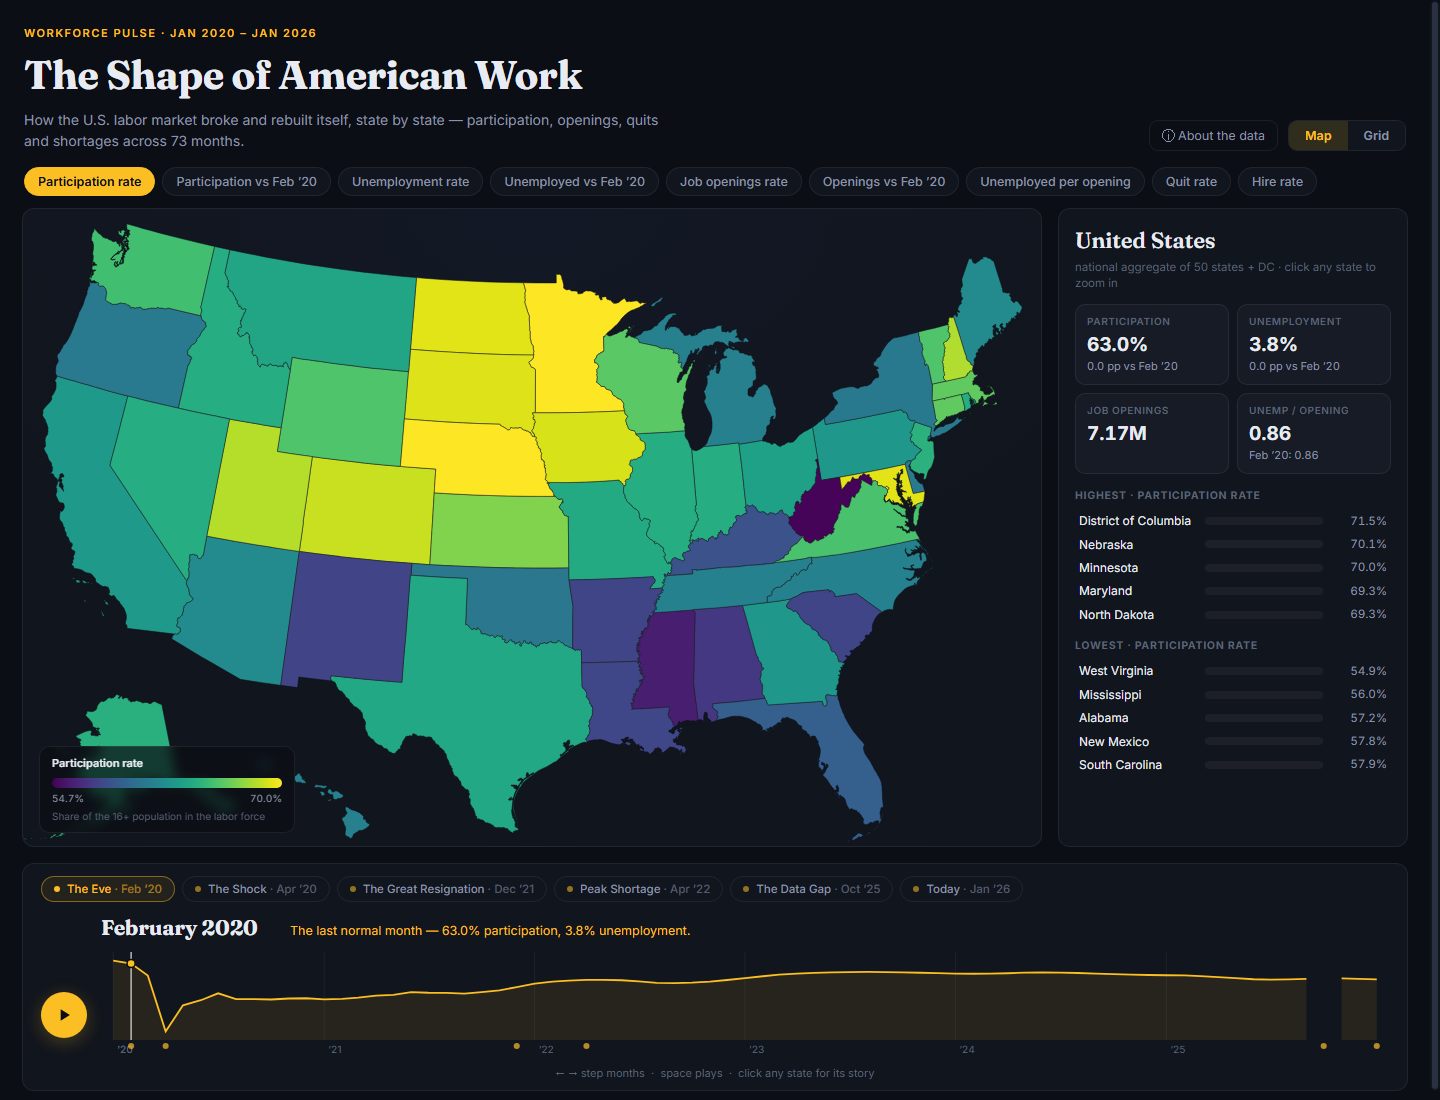
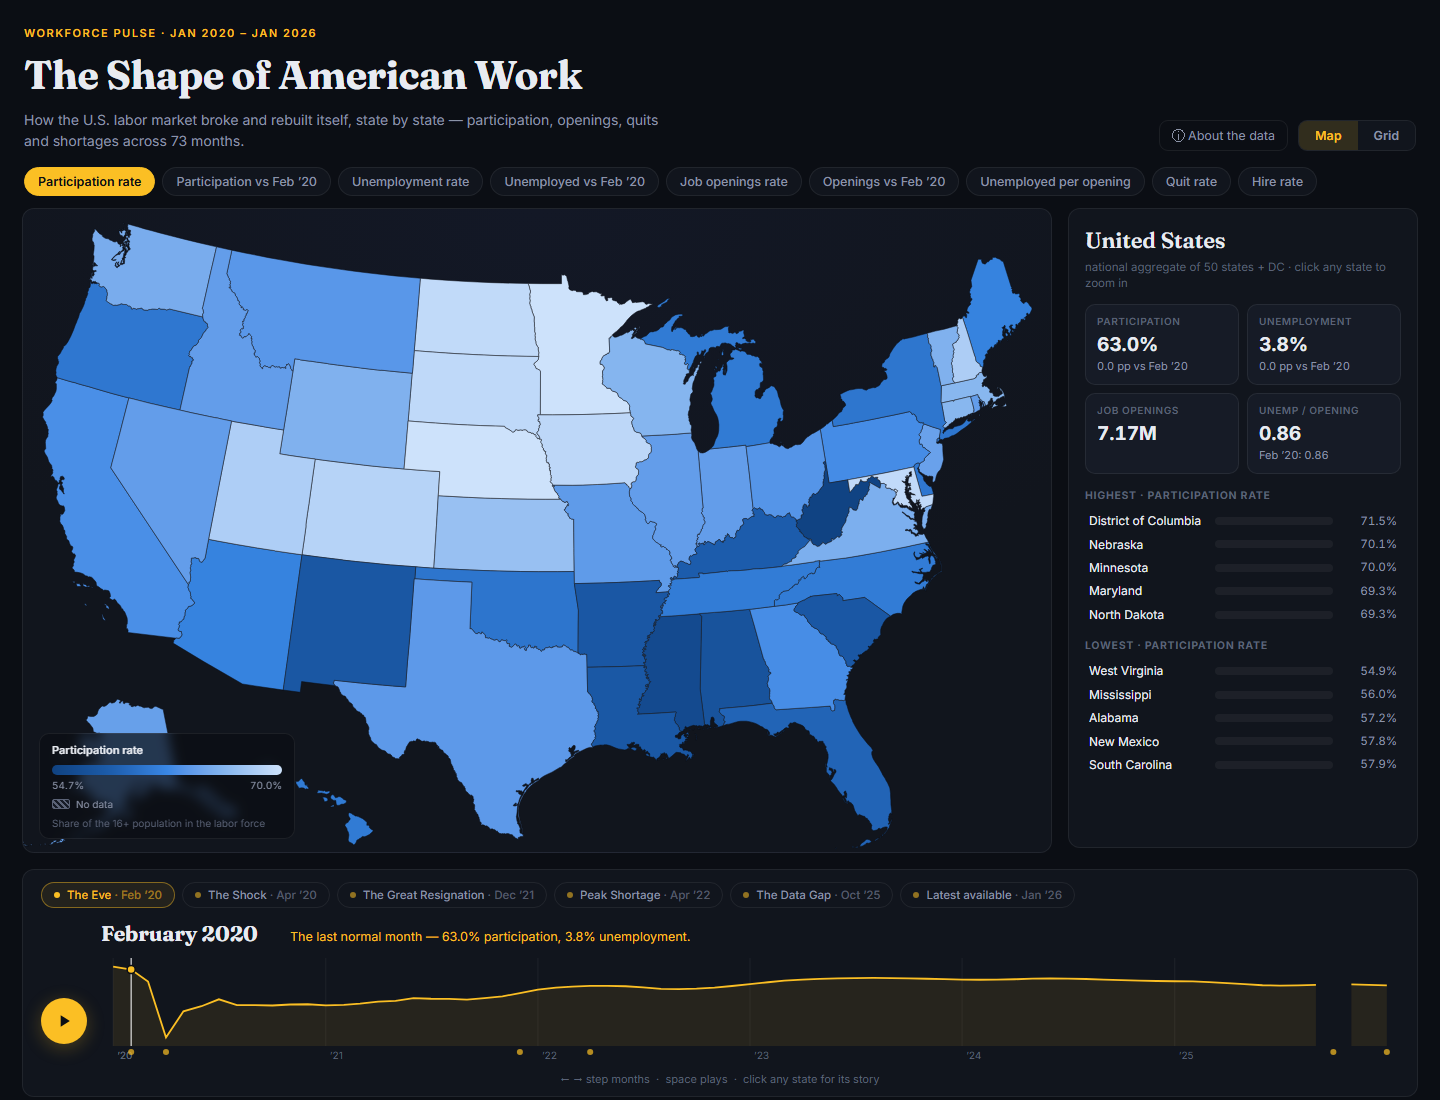
Adopt a refined dark color scheme for the atlas maps
- Level metrics share one blue ramp (brighter = higher) instead of five
  different colormaps, so a color means the same thing on every tab. Its
  darkest step stays visible on the map panel (1.8:1 instead of ~1.2:1).
- Change metrics diverge red / dark gray / blue instead of RdBu, so "no
  change" no longer renders as the brightest state on the dark map.
- Missing months (October 2025) use a hatch pattern with a legend key
  instead of a gray that matched the lowest values.
- Tile labels pick whichever ink has more contrast, raising the worst
  label contrast from about 3.0:1 to 4.1:1.
- Bump module/style cache versions and refresh the README screenshot.

diff --git a/js/config.js b/js/config.js
@@ -23,7 +23,7 @@ export const STATE_INFO = {
 };
 
 export const DATA_URL = encodeURI('State-Grid view.csv');
-export const MISSING = '#232936';          // fill for "no data" (Oct 2025 gap)
+export const MISSING = '#161b26';          // base of the hatched "no data" fill (Oct 2025 gap)
 
 export const fin = v => v != null && isFinite(v);
 
@@ -44,26 +44,31 @@ export const FMT = {
                                  : d3.format(',.0f')(v) + 'K') : '—',
 };
 
+/* One blue ramp for every level metric: brighter = higher. Its darkest step
+   stays visible on the dark map panel instead of sinking into the background. */
+const SEQUENTIAL = d3.piecewise(d3.interpolateLab,
+  ['#104281', '#1c5cab', '#3987e5', '#86b6ef', '#cde2fb']);
+
 /* ── metric catalogue ───────────────────────────────────────────────
    col    → key into the per-state / national value arrays
    kind   → 'seq' (sequential scale) or 'div' (diverging around center)
-   flip   → diverging only: reverse RdBu so HIGH values read red (bad)
+   flip   → diverging only: reverse the ramp so HIGH values read red (worse)
    fmt    → value formatter; cell → compact label for grid tiles      */
 export const METRICS = [
   { id: 'lfpr', col: 'lfpr', label: 'Participation rate', kind: 'seq',
-    interp: d3.interpolateViridis, fmt: FMT.pct1, cell: v => v.toFixed(1),
+    interp: SEQUENTIAL, fmt: FMT.pct1, cell: v => v.toFixed(1),
     note: 'Share of the 16+ population in the labor force' },
   { id: 'lfprD', col: 'lfprD', label: 'Participation vs Feb ’20', kind: 'div', center: 0,
     fmt: FMT.pp, cell: v => (v > 0 ? '+' : '') + v.toFixed(1),
     note: 'Percentage points vs Feb 2020 · deltas begin Mar 2020' },
   { id: 'ur', col: 'ur', label: 'Unemployment rate', kind: 'seq',
-    interp: d3.interpolateInferno, fmt: FMT.pct1, cell: v => v.toFixed(1),
+    interp: SEQUENTIAL, fmt: FMT.pct1, cell: v => v.toFixed(1),
     note: 'Unemployed share of the labor force' },
   { id: 'unempD', col: 'unempD', label: 'Unemployed vs Feb ’20', kind: 'div', center: 0, flip: true,
     fmt: FMT.pctS, cell: v => (v > 0 ? '+' : '') + d3.format('.0f')(v),
     note: '% change in number unemployed vs Feb 2020' },
   { id: 'openRate', col: 'openRate', label: 'Job openings rate', kind: 'seq',
-    interp: d3.interpolatePlasma, fmt: FMT.pct1, cell: v => v.toFixed(1),
+    interp: SEQUENTIAL, fmt: FMT.pct1, cell: v => v.toFixed(1),
     note: 'Openings ÷ (employment + openings) — JOLTS definition' },
   { id: 'openD', col: 'openD', label: 'Openings vs Feb ’20', kind: 'div', center: 0,
     fmt: FMT.pctS, cell: v => (v > 0 ? '+' : '') + d3.format('.0f')(v),
@@ -72,17 +77,25 @@ export const METRICS = [
     fmt: FMT.r2, cell: v => v.toFixed(2),
     note: '◀ shortage of workers · slack labor market ▶' },
   { id: 'quitR', col: 'quitR', label: 'Quit rate', kind: 'seq',
-    interp: d3.interpolateMagma, fmt: FMT.pct1, cell: v => v.toFixed(1),
+    interp: SEQUENTIAL, fmt: FMT.pct1, cell: v => v.toFixed(1),
     note: 'Voluntary quits as a share of employment' },
   { id: 'hireR', col: 'hireR', label: 'Hire rate', kind: 'seq',
-    interp: d3.interpolateCividis, fmt: FMT.pct1, cell: v => v.toFixed(1),
+    interp: SEQUENTIAL, fmt: FMT.pct1, cell: v => v.toFixed(1),
     note: 'Hires as a share of employment' },
 ];
 
 export const metricById = id => METRICS.find(m => m.id === id);
 
-/* black or white label text, whichever reads on the given fill */
+/* dark or light label text, whichever has more WCAG contrast on the given fill */
+const luminance = c => {
+  const { r, g, b } = d3.rgb(c);
+  const lin = v => (v /= 255) <= 0.03928 ? v / 12.92 : ((v + 0.055) / 1.055) ** 2.4;
+  return 0.2126 * lin(r) + 0.7152 * lin(g) + 0.0722 * lin(b);
+};
+const INK_DARK = '#10131b', INK_LIGHT = '#f2f4f8';
+const Y_DARK = luminance(INK_DARK), Y_LIGHT = luminance(INK_LIGHT);
 export const textOn = c => {
-  try { return d3.lab(c).l > 58 ? '#10131b' : '#f2f4f8'; }
-  catch { return '#f2f4f8'; }
+  const y = luminance(c);
+  if (!Number.isFinite(y)) return INK_LIGHT;       // pattern fills: the no-data hatch is dark
+  return (y + 0.05) / (Y_DARK + 0.05) >= (Y_LIGHT + 0.05) / (y + 0.05) ? INK_DARK : INK_LIGHT;
 };

diff --git a/js/components/map.js b/js/components/map.js
@@ -3,6 +3,7 @@
    Owns the legend and the contextual map note. */
 
 import { MISSING, fin, dur, textOn, metricById } from '../config.js';
+import { NO_DATA_ID } from '../data.js?v=20260925-colors';
 
 const TOPO_URL = 'https://cdn.jsdelivr.net/npm/us-atlas@3/states-albers-10m.json';
 /* ^ the -albers variant is pre-projected to the 975×610 viewBox */
@@ -13,6 +14,7 @@ const GRID_Y = 8;
 
 export function createMap(data, store, actions, tooltip) {
   const svg = d3.select('#map');
+  defineNoDataPattern();
   const gGeo = svg.append('g').attr('class', 'g-geo');
   const gGrid = svg.append('g').attr('class', 'g-grid');
   const legend = d3.select('#legend');
@@ -32,6 +34,15 @@ export function createMap(data, store, actions, tooltip) {
   renderFills(store.get(), 0);
   applyView(store.get(), true);          // grid first; crossfade when shapes load
 
+  /* 45° hatch for missing months, distinct from every value color */
+  function defineNoDataPattern() {
+    const p = svg.append('defs').append('pattern').attr('id', NO_DATA_ID)
+      .attr('width', 6).attr('height', 6).attr('patternUnits', 'userSpaceOnUse')
+      .attr('patternTransform', 'rotate(45)');
+    p.append('rect').attr('width', 6).attr('height', 6).attr('fill', MISSING);
+    p.append('line').attr('y2', 6).attr('stroke', '#5b6377').attr('stroke-width', 1.5);
+  }
+
   /* ── tile grid layer ──────────────────────────────────────────── */
   function buildGrid() {
     const cells = gGrid.selectAll('g.cell')
@@ -41,7 +52,7 @@ export function createMap(data, store, actions, tooltip) {
       .on('pointermove', (e, d) => tooltip.show(e, d.name))
       .on('pointerleave', tooltip.hide)
       .on('click', (e, d) => actions.select(d.name));
-    cells.append('rect').attr('width', CELL).attr('height', CELL).attr('rx', 8).attr('fill', MISSING);
+    cells.append('rect').attr('width', CELL).attr('height', CELL).attr('rx', 8).attr('fill', `url(#${NO_DATA_ID})`);
     cells.append('text').attr('class', 'abbr').attr('x', CELL / 2).attr('y', CELL / 2 - 2)
       .attr('text-anchor', 'middle').text(d => d.abbr);
     cells.append('text').attr('class', 'val').attr('x', CELL / 2).attr('y', CELL / 2 + 16)
@@ -64,7 +75,7 @@ export function createMap(data, store, actions, tooltip) {
       gGeo.selectAll('path.state').data(features, f => f.properties.name).join('path')
         .attr('class', 'state')
         .attr('d', path)
-        .attr('fill', MISSING)
+        .attr('fill', `url(#${NO_DATA_ID})`)
         .on('pointermove', (e, f) => tooltip.show(e, f.properties.name))
         .on('pointerleave', tooltip.hide)
         .on('click', (e, f) => actions.select(f.properties.name));
@@ -124,6 +135,7 @@ export function createMap(data, store, actions, tooltip) {
       <div class="lg-title">${m.label}</div>
       <div style="width:230px;height:10px;border-radius:5px;background:linear-gradient(to right,${stops.join(',')})"></div>
       <div class="lg-labels"><span>${labels[0]}</span><span>${labels[1]}</span><span>${labels[2]}</span></div>
+      <div class="lg-nodata"><i></i>No data</div>
       ${m.note ? `<div class="lg-note">${m.note}</div>` : ''}`);
   }
 

diff --git a/js/data.js b/js/data.js
@@ -3,6 +3,15 @@
 
 import { STATE_INFO, METRICS, FMT, fin } from './config.js';
 
+/* Missing months are painted with a hatch pattern the map defines under this id,
+   so a gap can't be mistaken for a low value. */
+export const NO_DATA_ID = 'no-data';
+
+/* Diverging: red below the center ← dark neutral gray → blue above it (metrics
+   with `flip` reverse this). The dark midpoint keeps "no change" quiet instead of
+   making it the brightest state on the map. */
+const DIVERGING = d3.piecewise(d3.interpolateLab, ['#e66767', '#383835', '#3987e5']);
+
 /* CSV headers → short column keys used everywhere else */
 const COLUMNS = {
   pop:    'Population (thousands)',
@@ -38,8 +47,8 @@ export async function loadData(url) {
   return {
     periods, N: periods.length, baseIdx,
     byState, national, chapters,
-    /* fill color for a metric value (gray for missing months) */
-    fillFor: (metric, v) => fin(v) ? scales.get(metric.id).scale(v) : '#232936',
+    /* fill for a metric value (hatch pattern for missing months) */
+    fillFor: (metric, v) => fin(v) ? scales.get(metric.id).scale(v) : `url(#${NO_DATA_ID})`,
     domainOf: metric => scales.get(metric.id).domain,
     scaleOf: metric => scales.get(metric.id).scale,
   };
@@ -120,7 +129,7 @@ function buildScales(byState, N) {
       });
     } else {
       const lo = Math.min(p02, m.center), hi = Math.max(p98, m.center);
-      const interp = m.flip ? t => d3.interpolateRdBu(1 - t) : d3.interpolateRdBu;
+      const interp = m.flip ? t => DIVERGING(1 - t) : DIVERGING;
       scales.set(m.id, {
         scale: d3.scaleDiverging(interp).domain([lo, m.center, hi]).clamp(true),
         domain: [lo, m.center, hi],

diff --git a/js/main.js b/js/main.js
@@ -3,7 +3,7 @@
    the store notifies components. */
 
 import { DATA_URL } from './config.js';
-import { loadData } from './data.js?v=20260920-snapshot';
+import { loadData } from './data.js?v=20260925-colors';
 import { createStore } from './store.js';
 import { createActions } from './actions.js';
 import { initModal, isModalOpen, showLoadError } from './ui.js';
@@ -11,7 +11,7 @@ import { initialStateFromHash, bindPermalink } from './permalink.js';
 import { createMetricBar } from './components/metricBar.js';
 import { createViewToggle } from './components/viewToggle.js';
 import { createTooltip } from './components/tooltip.js';
-import { createMap } from './components/map.js?v=20260920-snapshot';
+import { createMap } from './components/map.js?v=20260925-colors';
 import { createTimeline } from './components/timeline.js?v=20260920-snapshot';
 import { createChapters } from './components/chapters.js';
 import { createPanel } from './components/panel.js';

diff --git a/index.html b/index.html
@@ -8,7 +8,7 @@
 <link rel="preconnect" href="https://fonts.googleapis.com">
 <link rel="preconnect" href="https://fonts.gstatic.com" crossorigin>
 <link href="https://fonts.googleapis.com/css2?family=Fraunces:opsz,wght@9..144,600;9..144,700&family=Inter:wght@400;500;600;700&display=swap" rel="stylesheet">
-<link rel="stylesheet" href="styles.css">
+<link rel="stylesheet" href="styles.css?v=20260925-colors">
 </head>
 <body>
 
@@ -103,6 +103,6 @@ if (location.protocol === 'file:') {
 </script>
 <script src="https://cdn.jsdelivr.net/npm/d3@7"></script>
 <script src="https://cdn.jsdelivr.net/npm/topojson-client@3"></script>
-<script type="module" src="js/main.js?v=20260920-snapshot"></script>
+<script type="module" src="js/main.js?v=20260925-colors"></script>
 </body>
 </html>

diff --git a/styles.css b/styles.css
@@ -188,6 +188,14 @@ main {
   margin-top: 3px;
   font-variant-numeric: tabular-nums;
 }
+#legend .lg-nodata { display: flex; align-items: center; gap: 6px; font-size: 10px; color: var(--muted); margin-top: 5px; }
+#legend .lg-nodata i {
+  width: 18px;
+  height: 10px;
+  border-radius: 2px;
+  border: 1px solid #5b6377;
+  background: repeating-linear-gradient(45deg, #5b6377 0 1.5px, #161b26 1.5px 4.2px);
+}
 #legend .lg-note { font-size: 10px; color: var(--faint); margin-top: 4px; max-width: 230px; }
 
 #mapNote {

diff --git a/README.md b/README.md
@@ -87,8 +87,11 @@ js/
 | Quit rate / Hire rate | share of employment (JOLTS) |
 
 Color scales are fixed across all 73 months (clamped at the 2nd–98th
-percentile), so colors stay comparable while animating. Diverging metrics
-center on the Feb 2020 baseline (white = back to normal).
+percentile), so colors stay comparable while animating. Every level metric
+uses one blue ramp (brighter = higher). Change metrics diverge from a dark
+gray midpoint at the Feb 2020 baseline (1.0 for unemployed per opening):
+red below it and blue above it, reversed for "Unemployed vs Feb ’20" so a
+rise in unemployment reads red. Missing months are hatched rather than colored.
 
 ## Data notes
 
